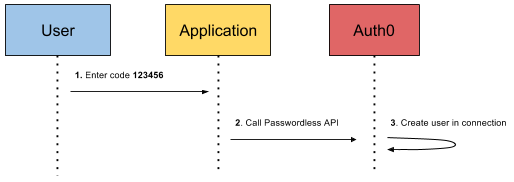
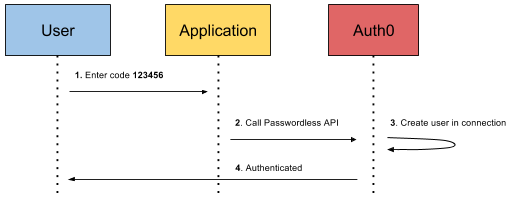
Add SMS to iOS Passwordless

diff --git a/articles/connections/passwordless/ios.md b/articles/connections/passwordless/ios.md
@@ -1,0 +1,56 @@
+---
+title: Using Passwordless Authentication on iOS
+connection: SMS, Email & iOS Touch ID
+image:
+alias:
+  - sms
+  - email
+  - ios-touchid
+  - ios
+---
+
+# Passwordless Authentication
+
+Passwordless connections in Auth0 allow users to login without the need of a password. This can vastly improve the user experience (especially on mobile applications) because users only need their email address, phone number or fingerprint when they register for your application. In addition to that they don't need to remember any password (no more reset/forgot password or using the same password everywhere).
+
+And this also means that the email address or phone number used for authentication is automatically validated because they just used it to sign up and authenticate.
+
+## Configuration
+
+These connections work by using an authentication channel like SMS messages, emails our Touch ID. These connections are configured in the dashboard under [Connections > Passwordless](https://manage.auth0.com/#/connections/passwordless):
+
+![](/media/articles/connections/passwordless/passwordless-connections.png)
+
+## Authenticate users with a one time code via SMS
+
+With the SMS connection users are requested to enter their phone number. After entering their phone number, Auth0 will use [Twilio](http://www.twilio.com) to send a verification code to the user (One Time Password). 
+
+After entering the OTP in your application, the user will be created in the `sms` connection and authenticated. 
+
+![](/media/articles/connections/passwordless/passwordless-create-user-flow.png)
+
+If the user already exists, we will just authenticate the user:
+
+![](/media/articles/connections/passwordless/passwordless-authenticated-flow.png)
+
+On mobile platform authentication means your application will receive an `id_token`, the user profile and optionally also a `refresh_token`.
+
+### Setup
+
+#### 1. Open an account with Twilio
+
+You will need a [Twilio Account SID](https://www.twilio.com/help/faq/twilio-basics/what-is-an-application-sid) and a [Twilio Auth Token](https://www.twilio.com/help/faq/twilio-basics/what-is-the-auth-token-and-how-can-i-change-it). These are the Twilio API credentials that Auth0 will use to send an SMS to the user.
+
+#### 2. Configure the connection
+
+On the **SMS (Twilio)** page on Auth0, enter your **Twilio Account SID** and **Auth Token**. Enter the **From** phone number users will see as the sender of the SMS (also configurable in Twilio) and a **message**.
+
+The `@@password@@` placeholder in the message template will be replaced with the one-time password that is sent in a text message to the user.
+
+![](/media/articles/connections/passwordless/passwordless-sms-config.png)
+
+### Implementation
+
+#### Using the Auth0 Lock
+
+#### Using your own UI
